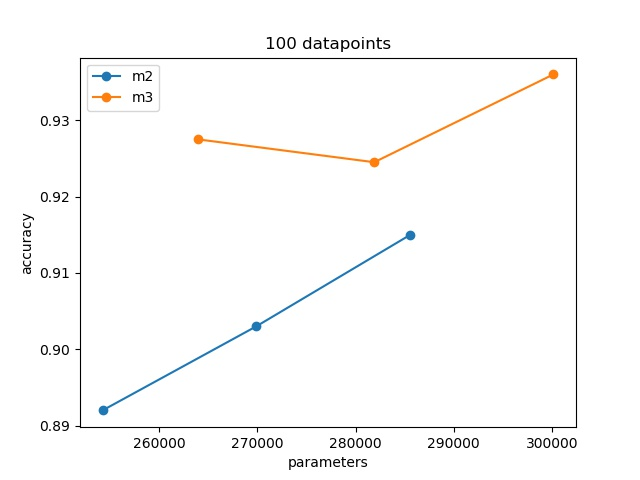
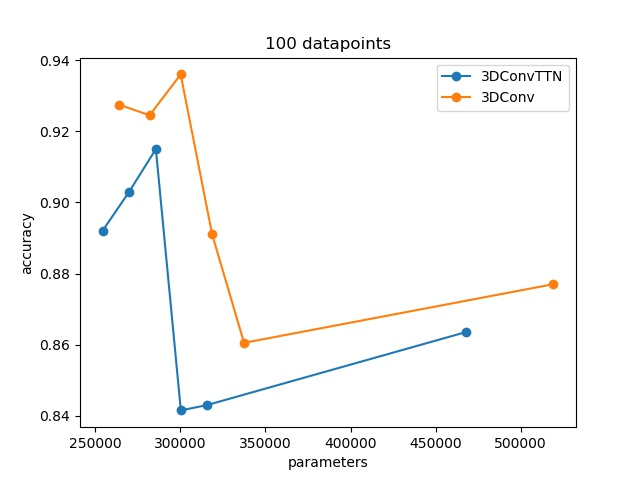
added plots for datapoints-parameters experiments

diff --git a/omg_emotion/tryouts.py b/omg_emotion/tryouts.py
@@ -34,32 +34,40 @@ import numpy as np
 fig = plt.figure()
 # ax = fig.gca(projection='3d')
 
-xs = np.array([254234, 263906, 269884, 281908, 285584, 300160])
+xs = np.array([254234, 263906, 269884, 281908, 285584, 300160, 300264, 315666, 318662, 337414, 467681, 519304])
+#                                                               3        3      2        2      3         2
 
 # 20
-# series1 = np.array([0.4555, None, 0.5115, None, 0.4455, None]).astype(np.double)
-# series2 = np.array([None, 0.555, None, 0.586, None, 0.6375]).astype(np.double)
+# series1 = np.array([0.4555, None, 0.5115, None, 0.4455, None, 0.513, 0.391, None, None, 0.429, None]).astype(np.double)
+# series2 = np.array([None, 0.555, None, 0.586, None, 0.6375, None, None, 0.4475, 0.4675, None, 0.428]).astype(np.double)
+
 # 30
-# series1 = np.array([0.593, None, 0.509, None, 0.564, None]).astype(np.double)
-# series2 = np.array([None, 0.641, None, 0.5885, None, 0.599]).astype(np.double)
+# series1 = np.array([0.593, None, 0.509, None, 0.564, None, 0.535, 0.5445, None, None, 0.5695, None]).astype(np.double)
+# series2 = np.array([None, 0.641, None, 0.5885, None, 0.599, None, None, 0.506, 0.498,None, 0.523]).astype(np.double)
+
 # 40
-# series1 = np.array([0.734, None, 0.6745, None, 0.6855, None]).astype(np.double)
-# series2 = np.array([None, 0.753, None, 0.778, None, 0.7705]).astype(np.double)
+# series1 = np.array([0.734, None, 0.6745, None, 0.6855, None, 0.7005, 0.6545, None, None, 0.7, None]).astype(np.double)
+# series2 = np.array([None, 0.753, None, 0.778, None, 0.7705, None, None, 0.6435, 0.7015,None, 0.6785]).astype(np.double)
+
 # 50
-# series1 = np.array([0.75, None, 0.7355, None, 0.744, None]).astype(np.double)
-# series2 = np.array([None, 0.7725, None, 0.749, None, 0.7535]).astype(np.double)
+# series1 = np.array([0.75, None, 0.7355, None, 0.744, None, 0.7235, 0.7025, None, None, 0.735, None]).astype(np.double)
+# series2 = np.array([None, 0.7725, None, 0.749, None, 0.7535, None, None, 0.6965, 0.722, None, 0.748]).astype(np.double)
+
 # 100
-# series1 = np.array([0.892, None, 0.903, None, 0.915, None]).astype(np.double)
-# series2 = np.array([None, 0.9275, None, 0.9245, None, 0.936]).astype(np.double)
+# series1 = np.array([0.892, None, 0.903, None, 0.915, None, 0.8415, 0.843, None, None, 0.8635, None]).astype(np.double)
+# series2 = np.array([None, 0.9275, None, 0.9245, None, 0.936, None, None, 0.891, 0.8605,None, 0.877]).astype(np.double)
+
 # 500
-# series1 = np.array([0.972, None, 0.97, None, 0.973, None]).astype(np.double)
-# series2 = np.array([None, 0.989, None, 0.995, None, 0.994]).astype(np.double)
+# series1 = np.array([0.972, None, 0.97, None, 0.973, None, 0.9605, 0.9805, None, None, 0.963, None]).astype(np.double)
+# series2 = np.array([None, 0.989, None, 0.995, None, 0.994, None, None, 0.9755, 0.971,None, 0.982]).astype(np.double)
+
 # 1000
-# series1 = np.array([0.98, None, 0.988, None, 0.9865, None]).astype(np.double)
-# series2 = np.array([None, 0.998, None, 0.997, None, 0.995]).astype(np.double)
+series1 = np.array([0.98, None, 0.988, None, 0.9865, None, 0.9725, 0.9825, None, None, 0.9865, None]).astype(np.double)
+series2 = np.array([None, 0.998, None, 0.997, None, 0.995, None, None, 0.993, 0.9895, None, 0.984]).astype(np.double)
+
 # 5000
-series1 = np.array([0.9965, None, 0.9955, None, 0.995, None]).astype(np.double)
-series2 = np.array([None, 0.999, None, 1, None, 1]).astype(np.double)
+# series1 = np.array([0.9965, None, 0.9955, None, 0.995, None]).astype(np.double)
+# series2 = np.array([None, 0.999, None, 1, None, 1]).astype(np.double)
 
 s1mask = np.isfinite(series1)
 s2mask = np.isfinite(series2)
@@ -71,15 +79,15 @@ s2mask = np.isfinite(series2)
 # series2 = np.array([2, None, 5, None, 4, None, 3, 2]).astype(np.double)
 # s2mask = np.isfinite(series2)
 
-plt.plot(xs[s1mask], series1[s1mask], linestyle='-', marker='o', label='m2')
-plt.plot(xs[s2mask], series2[s2mask], linestyle='-', marker='o', label='m3')
+plt.plot(xs[s1mask], series1[s1mask], linestyle='-', marker='o', label='3DConvTTN')
+plt.plot(xs[s2mask], series2[s2mask], linestyle='-', marker='o', label='3DConv')
 
-num = 5000
+num = 1000
 
 plt.ylabel('accuracy')
 plt.xlabel('parameters')
 plt.title('%d datapoints' % num)
-plt.legend(('m2', 'm3'))
+plt.legend(('3DConvTTN', '3DConv'))
 
 plt.savefig('picture_%d.jpg' % num)
 

diff --git a/omg_emotion/toy_mnist_experiments.py b/omg_emotion/toy_mnist_experiments.py
@@ -3191,27 +3191,6 @@ def e288_conv3dttn_mnist():
 
 project_variable = ProjectVariable(debug_mode=False)
 
-# e268_conv3dttn_mnist()
-# e269_conv3dttn_mnist()
-# e270_conv3dttn_mnist()
-# e271_conv3dttn_mnist()
-# e272_conv3dttn_mnist()
-# e273_conv3dttn_mnist()
-# e274_conv3dttn_mnist()
-# e275_conv3dttn_mnist()
-# e276_conv3dttn_mnist()
-# e277_conv3dttn_mnist()
-# e278_conv3dttn_mnist()
-# e279_conv3dttn_mnist()
-# e280_conv3dttn_mnist()
-# e281_conv3dttn_mnist()
-# e282_conv3dttn_mnist()
-# e283_conv3dttn_mnist()
-# e284_conv3dttn_mnist()
-# e285_conv3dttn_mnist()
-# e286_conv3dttn_mnist()
-# e287_conv3dttn_mnist()
-# e288_conv3dttn_mnist()
 
 
 # TODO: train first_weight and srxy parameters in alternating cycles
